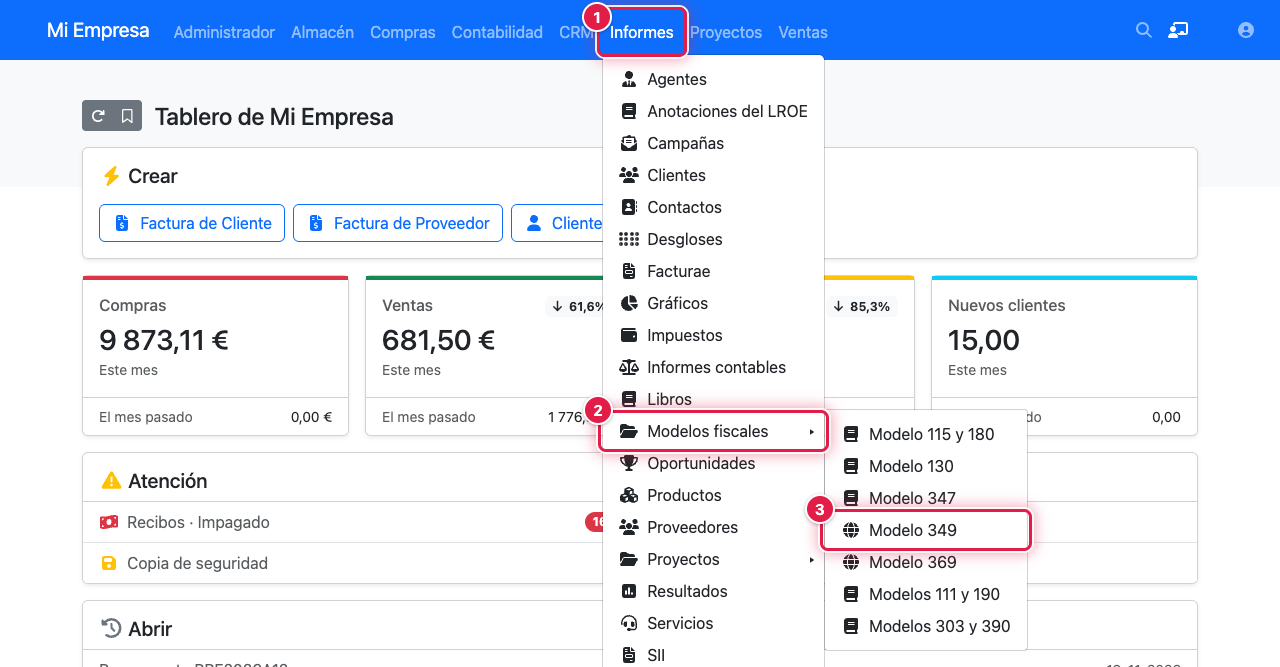
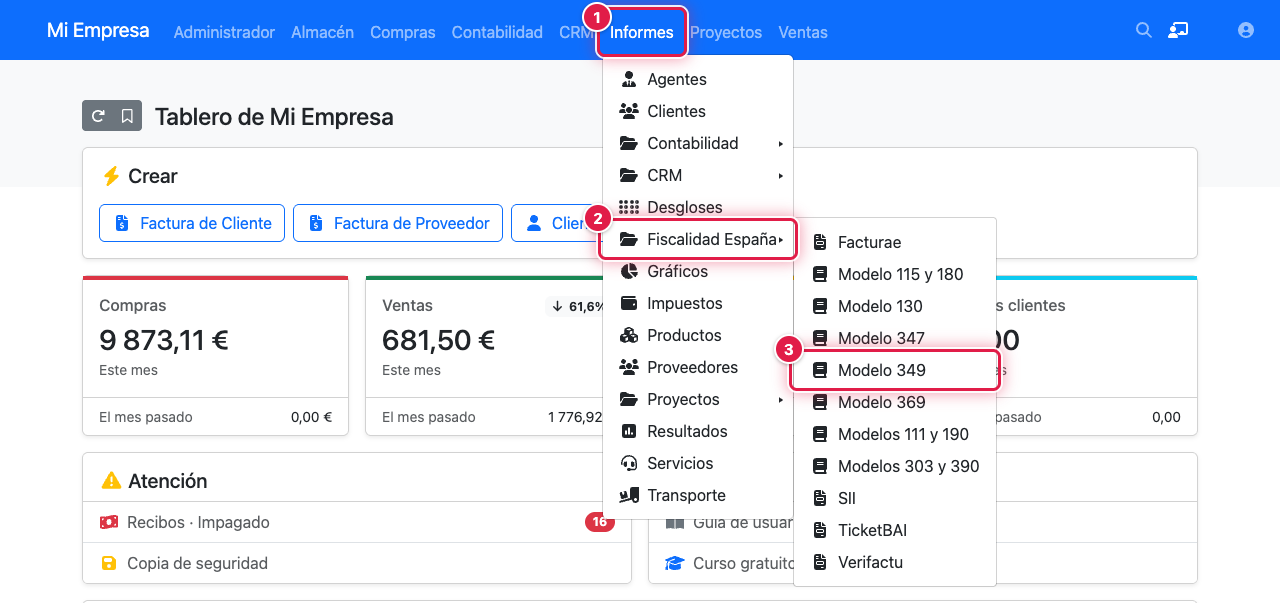
feat(modelo349): mover el informe al submenú Fiscalidad España
- El controlador usa el submenú taxation-spain y el icono fa-book.
- Se añade la traducción taxation-spain a es_ES.
- La documentación y la captura del menú nombran Informes > Fiscalidad España.

diff --git a/Controller/Modelo349.php b/Controller/Modelo349.php
@@ -109,7 +109,7 @@ class Modelo349 extends Controller
     }
 
     /**
-     * Datos de la página: menú Informes, submenú de modelos fiscales.
+     * Datos de la página: menú Informes, submenú Fiscalidad España.
      *
      * @return array
      */
@@ -117,9 +117,9 @@ class Modelo349 extends Controller
     {
         $data = parent::getPageData();
         $data['menu'] = 'reports';
-        $data['submenu'] = 'tax-models';
+        $data['submenu'] = 'taxation-spain';
         $data['title'] = 'model-349';
-        $data['icon'] = 'fa-solid fa-globe';
+        $data['icon'] = 'fa-solid fa-book';
         return $data;
     }
 

diff --git a/Doc/Context/05-evolucion.md b/Doc/Context/05-evolucion.md
@@ -12,6 +12,7 @@ Historial corto (26 commits, jun-nov 2026).
 | 2026-10-27 y 2026-11-13 | Prefijo `EL` de Grecia (`e524e90`) y uso de `Vies::vatPrefix()` (`28e6e00`, `f895718`). |
 | 2026-11-13 | Avisos y títulos de pestañas (`d640a3e`); traducciones y script actualizador; versión 1.2 (`9aecdf5`). |
 | 2026-11-19 | CI: los tests solo se lanzan cuando cambia el código (`3b3a895`). |
+| 2026-11-26 | El informe pasa del submenú `tax-models` al subgrupo `taxation-spain` (Fiscalidad España), con el icono `fa-book`; versión 1.3. |
 | 2026-11-26 | `80b5df5`: cálculo a `Lib/Modelo349` filtrando por empresa y año del ejercicio; API de solo lectura; `Txt349Export` pasa a `Modelo349File`. |
 
 Antes de `80b5df5` el cálculo no filtraba por empresa y el año se tomaba del código del ejercicio.

diff --git a/Doc/Context/01-arquitectura.md b/Doc/Context/01-arquitectura.md
@@ -8,7 +8,7 @@ solo tiene `min_version = 2026.72`).
 
 | Pieza | Qué hace |
 |---|---|
-| `Controller/Modelo349.php` | Pantalla (menú Informes > modelos fiscales). Lee el formulario, llama al cálculo y descarga el TXT. |
+| `Controller/Modelo349.php` | Pantalla (menú Informes > Fiscalidad España). Lee el formulario, llama al cálculo y descarga el TXT. |
 | `View/Modelo349.html.twig` | Formulario (ejercicio, periodo, serie, tipo de declaración, justificantes) y tablas de ventas y compras. |
 | `Controller/ApiModelo349.php` | Endpoint `GET /api/3/modelo349`. Solo valida el método y delega en `Lib/Modelo349Api`. |
 | `Init.php` | Registra la ruta de la API, el recurso `modelo349` en `ApiRoot` y las operaciones de venta del plugin (`Clave349::register()`). |

diff --git a/Doc/User/como-rellenar-el-modelo-349.md b/Doc/User/como-rellenar-el-modelo-349.md
@@ -23,10 +23,10 @@ Si no ves el menú del paso siguiente, activa el plugin Modelo349 desde **menú 
 ## 📋 Cómo se rellena
 
 1. Pulsa el menú **Informes**.
-2. Pasa el ratón por **Modelos fiscales**.
+2. Pasa el ratón por **Fiscalidad España**.
 3. Elige **Modelo 349**.
 
-![Menú Informes con el submenú Modelos fiscales y la opción Modelo 349 marcada](../Assets/como-rellenar-el-modelo-349/01-menu-modelo-349.png)
+![Menú Informes con el submenú Fiscalidad España y la opción Modelo 349 marcada](../Assets/como-rellenar-el-modelo-349/01-menu-modelo-349.png)
 
 Ahora elige qué declaración quieres ver:
 
